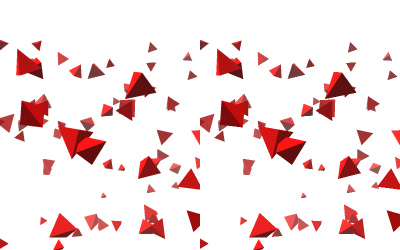
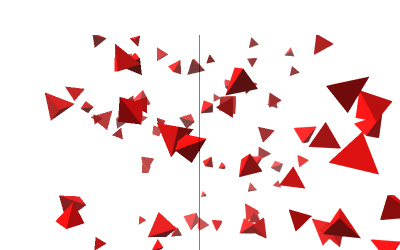
Examples: Slightly refactor FXAA demo. (#21785)
* Examples: Slightly refactor FXAA demo.

* Update screenshot.

diff --git a/examples/webgl_postprocessing_fxaa.html b/examples/webgl_postprocessing_fxaa.html
@@ -17,7 +17,7 @@
 
 			#container {
 				position: absolute;
-				top: 80px;
+				top: 70px;
 				width: 100%;
 				bottom: 0px;
 			}
@@ -28,7 +28,7 @@
 
 		<div id="info">
 			<a href="https://threejs.org" target="_blank" rel="noopener">three.js</a> - postprocessing - FXAA<br />
-			Left scene processed with FXAA, right scene is rendered without anti-aliasing.
+			Left: No FXAA, Right: FXAA
 		</div>
 		<div id="container">
 		</div>
@@ -54,7 +54,7 @@
 
 				container = document.getElementById( 'container' );
 
-				camera = new THREE.PerspectiveCamera( 45, ( container.offsetWidth * 0.5 ) / container.offsetHeight, 1, 2000 );
+				camera = new THREE.PerspectiveCamera( 45, container.offsetWidth / container.offsetHeight, 1, 2000 );
 				camera.position.z = 500;
 
 				scene = new THREE.Scene();
@@ -115,23 +115,22 @@
 				//
 
 				fxaaPass = new ShaderPass( FXAAShader );
+				const copyPass = new ShaderPass( CopyShader );
+
+				composer1 = new EffectComposer( renderer );
+				composer1.addPass( renderPass );
+				composer1.addPass( copyPass );
+
+				//
 
 				const pixelRatio = renderer.getPixelRatio();
 
 				fxaaPass.material.uniforms[ 'resolution' ].value.x = 1 / ( container.offsetWidth * pixelRatio );
 				fxaaPass.material.uniforms[ 'resolution' ].value.y = 1 / ( container.offsetHeight * pixelRatio );
 
-				composer1 = new EffectComposer( renderer );
-				composer1.addPass( renderPass );
-				composer1.addPass( fxaaPass );
-
-				//
-
-				const copyPass = new ShaderPass( CopyShader );
-
 				composer2 = new EffectComposer( renderer );
 				composer2.addPass( renderPass );
-				composer2.addPass( copyPass );
+				composer2.addPass( fxaaPass );
 
 				//
 
@@ -141,7 +140,7 @@
 
 			function onWindowResize() {
 
-				camera.aspect = ( container.offsetWidth * 0.5 ) / container.offsetHeight;
+				camera.aspect = container.offsetWidth / container.offsetHeight;
 				camera.updateProjectionMatrix();
 
 				renderer.setSize( container.offsetWidth, container.offsetHeight );
@@ -163,13 +162,15 @@
 
 				group.rotation.y += clock.getDelta() * 0.1;
 
-				renderer.setViewport( 0, 0, halfWidth, container.offsetHeight );
+				renderer.setScissorTest( true );
 
+				renderer.setScissor( 0, 0, halfWidth - 1, container.offsetHeight );
 				composer1.render();
 
-				renderer.setViewport( halfWidth, 0, halfWidth, container.offsetHeight );
-
+				renderer.setScissor( halfWidth, 0, halfWidth, container.offsetHeight );
 				composer2.render();
+
+				renderer.setScissorTest( false );
 
 			}
 
